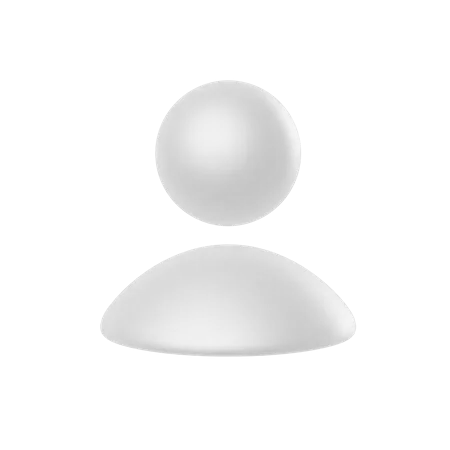
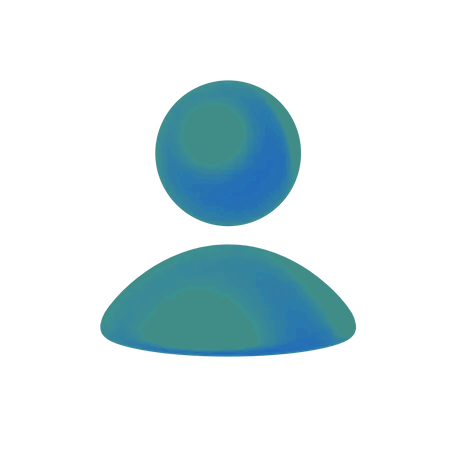
fine tuned profilepicture and deleted useless texts

Changed region(s): [[0.2178, 0.1556, 0.8089, 0.8089]]

diff --git a/index.html b/index.html
@@ -29,7 +29,7 @@
             
             <div class = "navcontent" id = "navcontent">
                 <a href = #top class="navbuttons">home</a>
-                <a href = #album class="navbuttons">art</a>
+                <a href = #album class="navbuttons">misc</a>
                 <a href = #contacts class="navbuttons">contact</a>
                 <button class = "button navbuttons" id = "darkmode" onclick="darkMode()">☾ ☀</button>
                 
@@ -44,7 +44,7 @@
         <div class="myName">
             <div class="imagetextcenter">
                 <h1 class = "name">Jacky Liu</h1>
-                <img class = "profilepicture" id = "profilepicture" src = "images/bluewhite3.png" alt = "image"> 
+                <img id = "profilepicture" src = "images/bluewhite35.png" alt = "image"> 
                 <br><br>
             </div>
         </div>
@@ -72,9 +72,9 @@
                     <div class="aboutcontent" id = "about">
                         <div id = "abouttitles"><br>&nbsp;⋮ about</div><br>
                             <div id = "span1">
-                                <a class="aboutbuttons">cuny queens college</a>
                                 <a class="aboutbuttons">web developer</a>
-                                <a class="aboutbuttons">graphic designer</a>
+                                <a class="aboutbuttons">web designer</a>
+                                <a class="aboutbuttons">cs undergraduate</a>
                                 <a class="aboutbuttons">nyc</a>
                                 <br>
                             </div>
@@ -83,7 +83,7 @@
                             <span>
                                 <br>
                                 <span>
-                                    <br><p class = "para1" id = "lol">❱ undergrad at <span class = "colorhover">CUNY Queens College</span> majoring in computer science and finance.</p>
+                                    <br><p class = "para1" id = "lol">❱ undergrad at <span class = "colorhover">CUNY Queens College</span> majoring in computer science</p>
                                 </span>
                                 <span>
                                     <br><p class = "para1" id = "lol">❱ art is my passion, and software engineering helps me automate and solve important and mundane tasks and problems. </p>
@@ -101,10 +101,8 @@
                 <div class="aboutcontent" id = "projects"><br>
                     <div id = "abouttitles"><br>&nbsp;⋮ projects</div><br>
                         <div id = "span1">
-                            <a class="aboutbuttons">portfolio</a>
-                            <a class="aboutbuttons">tabsavvy</a>
-                            <a class="aboutbuttons">hex</a>
-                            <a class="aboutbuttons">colorcoder</a>
+                            <a class="aboutbuttons">my website</a>
+                            <a class="aboutbuttons">dahlia</a>
                             <a class="aboutbuttons">jckyscript</a>
                             <br>
                             
@@ -116,18 +114,18 @@
                 <div class="aboutdesc">
                     <br>
                         <span>
-                            <p class = "para1" >❱ <b>portfolio:</b> this site was coded using very basic html, css, and minimal javascript. this site employs 
+                            <p class = "para1" >❱ <b>my website:</b> this site was coded using very basic html, css, and minimal javascript. this site employs 
                                                                 very simple css techniques like flexbox for formatting purposes.</p>
                         </span>
                     <br>
                     <br>
                         <span>
-                            <p class = "para1">❱ <b>tabsavvy: </b>a bookmarker for browser tabs, allow your computer to use minimal resources and organize all your tabs in a very simple and effective way.</p>
+                            <p class = "para1">❱ <b>dahlia: </b>a react app using the spotify web api to make playlist collaboration easier, making creating playlists with others much easier</p>
                         </span> 
                     <br>
                     <br>
                         <span>
-                            <p class = "para1" >❱ <b>hex: </b>a wip css library -> frontend framework</p>
+                            <p class = "para1" >❱ <b>jckyscript: </b>a website that offers a variety of simple miscallaneous javascript based tools</p>
                         </span>
                     <br>
                 </div>
@@ -138,16 +136,16 @@
                 <div class="aboutcontent" id = "software">    
                     <div id = "abouttitles"><br>&nbsp;⋮ software</div><br>
                         <div id = "span1">
+                            <a class="aboutbuttons">ts & js</a>
+                            <a class="aboutbuttons">scss & css</a>
                             <a class="aboutbuttons">html</a>
-                            <a class="aboutbuttons">css</a>
-                            <a class="aboutbuttons">javascript</a>
-                            <a class="aboutbuttons">react.js</a>
-                            <a class="aboutbuttons">express.js</a>
-                            <a class="aboutbuttons">git/github</a>
-                            <a class="aboutbuttons">c++</a><br><br>
-                            <a class="aboutbuttons">visual studio code</a>
-                            <a class="aboutbuttons">java</a>
-                            <a class="aboutbuttons">adobe photoshop</a>
+                            <a class="aboutbuttons">react</a>
+                            <a class="aboutbuttons">figma</a>
+                            <a class="aboutbuttons">wordpress</a>
+                            <a class="aboutbuttons">python</a> <br><br>
+                            <a class="aboutbuttons">c++</a>
+                            <a class="aboutbuttons">git</a>
+                            <a class="aboutbuttons">paint.net</a>
                         </div>
                 </div>
 
@@ -162,12 +160,12 @@
                     <br>
                     <br>
                     <span>
-                        <p class = "para1" >❱ <b>software:</b> node.js, react.js, express.js, github, visual studio code, adobe photoshop, paint.net, docker</p>
+                        <p class = "para1" >❱ <b>software:</b> node.js, react.js, express.js, github, visual studio code, adobe photoshop, paint.net</p>
                     </span>
                     <br>
                     <br>
                     <span>
-                        <p class = "para1" >❱ <b>personal interests/skills:</b> graphic design, game development, nutrition science, video games</p>
+                        <p class = "para1" >❱ <b>personal interests/skills:</b> graphic design, game development, nutrition, video games</p>
                     </span>
                     <br>
                     
@@ -241,7 +239,7 @@
     <br><br><br><br><br><br><br><br><br>
     
     <div id = "contacts">
-        <p class = "para2"> <b>contacts:</b><br><br><br><b>professional:</b> jliufend@gmail.com<br><br><b> general:</b> jliuarc@gmail.com</p>
+        <p class = "para2"> <br><br><br><b>contacts:</b><br><br><br><b>email:</b> jliufend@gmail.com<br><br><b>
     </div>
     
     <br><br><br> 
@@ -283,7 +281,7 @@
         
         <div class="endboxitem" id = "endboxitem2">
             <div class="patreon">
-            <a href = "email.html" target = "_blank"><img id = "gmaillogo" src = "images/gmail1.gif"></a>
+            <a href = "email.html" target = "_blank"><img id = "gmaillogo" src = "images/gmail.gif"></a>
             <p id = "backtotop"> message</p>
             </div>  
         </div>

diff --git a/script.js b/script.js
@@ -1,4 +1,26 @@
+function darkmodePFP(){
+  const img = document.getElementById('profilepicture');
+  const isLight = 'images/bluewhite35.png';
+  const isDark = 'images/bluewhite36.png';
 
+  if (img.src.endsWith(isLight)){ //is this true?
+   img.src = isDark;
+  } else {
+    img.src = isLight;
+  }
+}
+
+function textToDark(){
+  const text = document.querySelector('para1');
+  const textLight = document.querySelector('para1').style.color;
+  const textDark = document.querySelector('para1').style.color = "yellow";
+  
+  if (text.color){ //is this true?
+    text.color = textDark;
+   } else {
+    text.color = textLight;
+   }
+}
 
 //darkmode
 function darkMode() {
@@ -8,9 +30,13 @@ function darkMode() {
   var element = document.querySelector("#about");
   element.classList.toggle("darkmodemain");
 
-
+  darkmodePFP();
+  textToDark();  
+}
   
- }
+  
+  
+ 
 
    
   //var element = document.querySelectorAll("#lol");

diff --git a/style.css b/style.css
@@ -125,15 +125,13 @@ body{
     padding-left: 12em;
     justify-content: center;
 }
-.profilepicture{
-    padding:1%;
-    margin: 0%;
-    width: 130px;
-    height: 130px;   
-}
 #profilepicture{
     border: solid 1px transparent;
     border-radius: 50%; 
+    padding:1%;
+    margin: 0%;
+    width: 130px;
+    height: 130px;  
 }
 @media(max-width:399px){
     .imagetextcenter{
@@ -256,13 +254,13 @@ body{
 }
 
 
-.para1{
+.para1{ /*all the texts*/
     /*border: solid 1px yellow;*/
     padding: 0 5em;
     color: #3484c5;
 }
 
-.para2{
+.para2{ /*email*/
     /*border: solid 1px yellow;*/
     padding: 0 5em;
     color: #3484c5;
